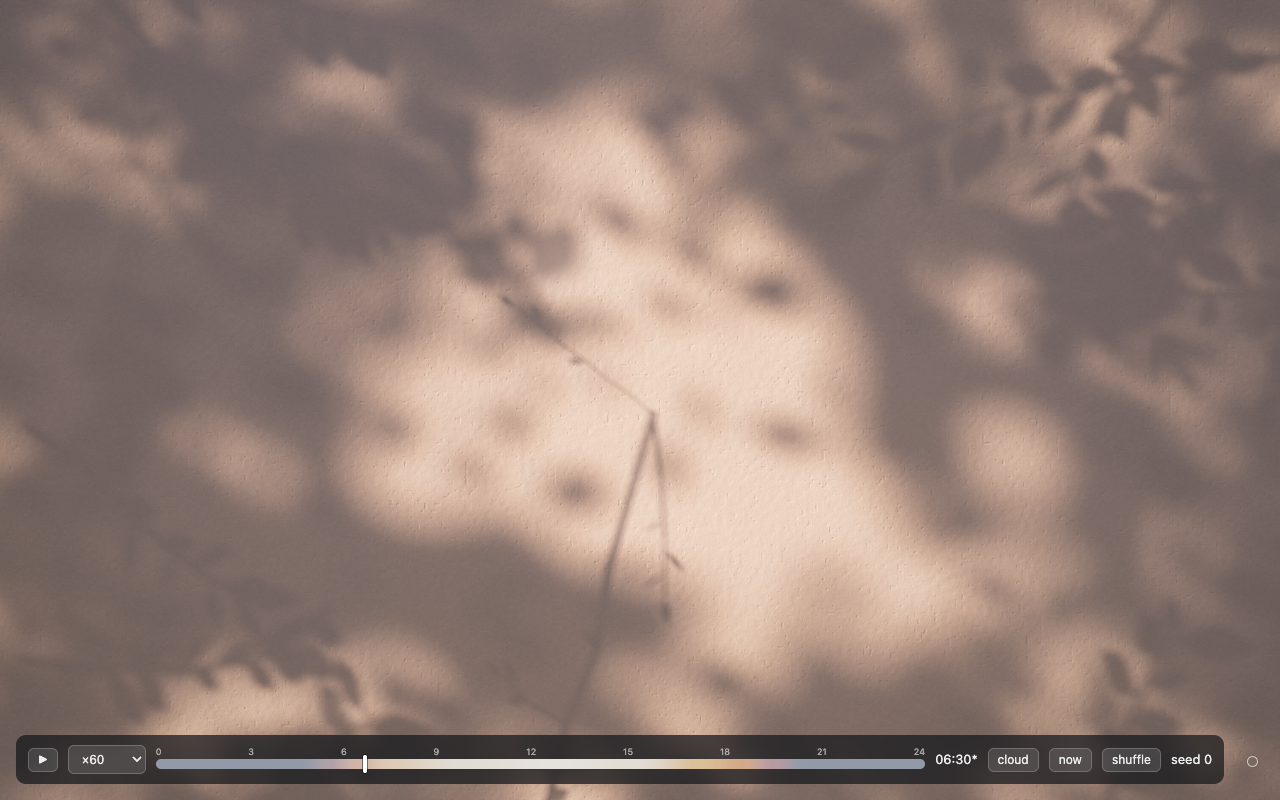
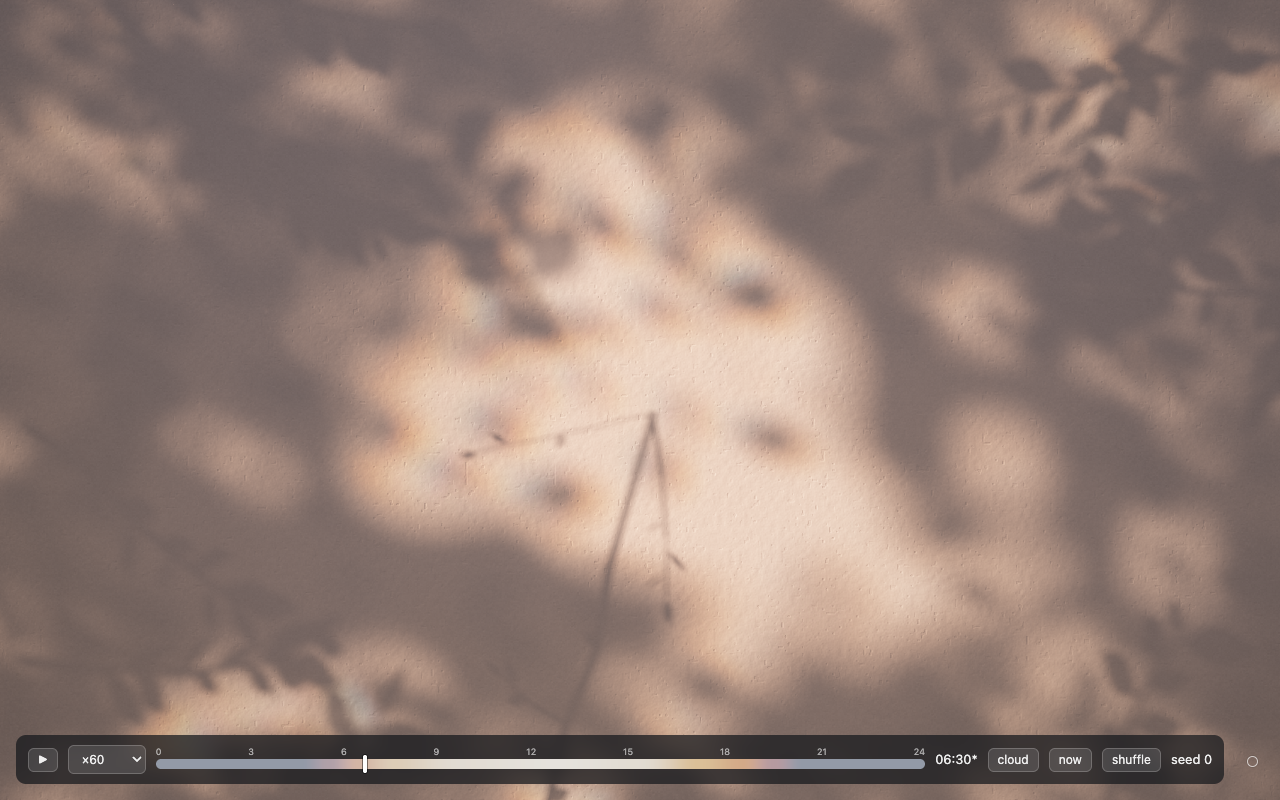
Komorebi Clock: the light's colour fringe back; round ends on twigs and branches
Since the middle leaves moved farther out, the light's edges had grown too
soft for the 2 px split to show. The split is wider now (0.7% of the screen
along the light, 1.6% outward), each colour is spread over two taps so it
melts rather than bands, and it reaches every lit patch, not only the
brightest. Twig and branch segments end in round caps, so the hour branch's
tip at the knot is no longer square. Store graphics refreshed.

diff --git a/komorebi/extension/newtab.js b/komorebi/extension/newtab.js
@@ -220,9 +220,14 @@ void main(){
     a = aa(w - abs(vQ.y), 0.);
 #endif
   } else if (vKind < 1.5) {
-    /* a twig: soft-edged so thin ones don't crawl as they move */
+    /* a twig: soft-edged so thin ones don't crawl as they move, and round at its ends
+       (vShape: the share of the quad each end cap takes) */
+    float du = vShape > 0. ? max(max(vShape - vQ.x, vQ.x - (1. - vShape)), 0.) / vShape : 0.;
+    float d = length(vec2(du, vQ.y));
 #ifdef HAS_DERIV
-    a = aa(1. - abs(vQ.y), fwidth(vQ.y));
+    a = aa(1. - d, fwidth(d));
+#else
+    a = step(d, 1.);
 #endif
   } else {
     /* a gap between leaves: an ellipse */
@@ -325,14 +330,15 @@ void main(){
   vec2 uv = gl_FragCoord.xy / uRes;
   vec2 fromC = uv - .5;
 
-  /* light splits a little at its edges: red one way, blue the other (along the light, and outward like a lens) */
+  /* light splits at its edges: warm one way, cool the other (along the light, and outward like a lens).
+     Each colour is spread over two taps, so the split melts into the soft edges instead of banding. */
   vec2 ca = fromC * uFx.z + uFx.xy;
-  float Sr = texture2D(uLight, uv - ca).r * 2.;   /* red lands outward */
+  float Sr = texture2D(uLight, uv - ca * .55).r + texture2D(uLight, uv - ca * 1.45).r;   /* red lands outward */
   vec3  Lg = texture2D(uLight, uv).rgb;
   float Sg = Lg.r * 2.;
-  float Sb = texture2D(uLight, uv + ca).r * 2.;
-  /* the split belongs to bright light: where it is dim the channels come back together */
-  float fw = smoothstep(.5, 1., max(max(Sr, Sg), Sb));
+  float Sb = texture2D(uLight, uv + ca * .55).r + texture2D(uLight, uv + ca * 1.45).r;
+  /* the split belongs to lit patches: where it is dim the channels come back together */
+  float fw = smoothstep(.22, .75, max(max(Sr, Sg), Sb));
   vec3 S = min(mix(vec3(Sg), vec3(Sr, Sg, Sb), fw), 1.45) * Lg.g * nearVis();   /* g: the branches' clean shadows */
   float halo = Lg.b;
 
@@ -959,9 +965,9 @@ function emitSeg(a, b, half, opacity) {
   let dx = pb[0] - pa[0], dy = pb[1] - pa[1];
   const dl = Math.hypot(dx, dy) || 1; dx /= dl; dy /= dl;
   const ex = b[0] - a[0], ey = b[1] - a[1], ez = b[2] - a[2];
-  const ext = half / (Math.hypot(ex, ey, ez) || 1);        /* a hair past both ends, so segments join */
+  const ext = half / (Math.hypot(ex, ey, ez) || 1);        /* a round cap past both ends, so segments join */
   putQuad(nearData, nearQ++, [a[0] - ex * ext, a[1] - ey * ext, a[2] - ez * ext],
-    [ex * (1 + 2 * ext), ey * (1 + 2 * ext), ez * (1 + 2 * ext)], [-dy * half, dx * half, 0], [0, 0, 1, opacity]);
+    [ex * (1 + 2 * ext), ey * (1 + 2 * ext), ez * (1 + 2 * ext)], [-dy * half, dx * half, 0], [ext / (1 + 2 * ext), 0, 1, opacity]);
 }
 function emitLeaf(base, L, Wv, opacity, shape) {
   if (nearQ >= NEAR_MAX) return;
@@ -1475,7 +1481,7 @@ function frame(now) {
   gl.uniform2f(C.u('uCloud2'), T.depth, T.lag);
   gl.uniform2f(C.u('uRelD'), sd[0], sd[1]);
   const fs = smooth(0.45, 0.95, L.si) * 0.9 + 0.1;   /* moonlight hardly splits */
-  gl.uniform4f(C.u('uFx'), sd[0] * 0.0016 * fs, sd[1] * 0.0016 * fs * W / H, 0.005 * fs, 0.22);
+  gl.uniform4f(C.u('uFx'), sd[0] * 0.007 * fs, sd[1] * 0.007 * fs * W / H, 0.016 * fs, 0.22);
   const fpx = (0.5 - yBot) / H;                  /* one device pixel, in wall units */
   gl.activeTexture(gl.TEXTURE2); gl.bindTexture(gl.TEXTURE_2D, nearT.tex);
   gl.uniform1i(C.u('uNear'), 2);
